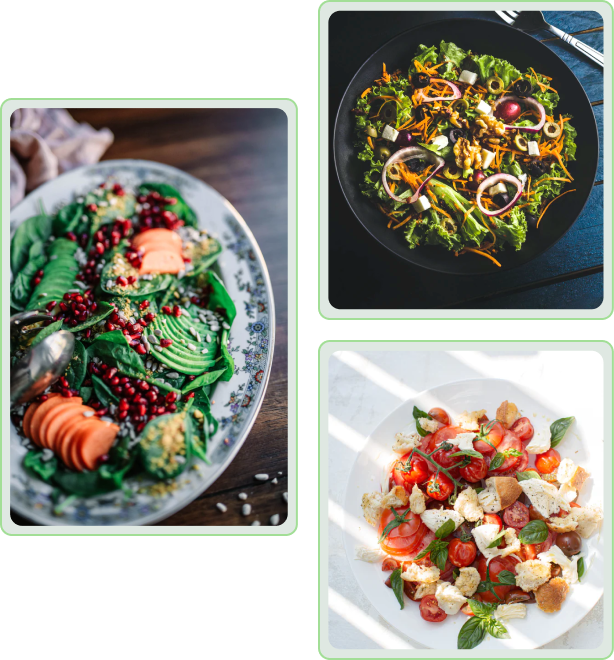
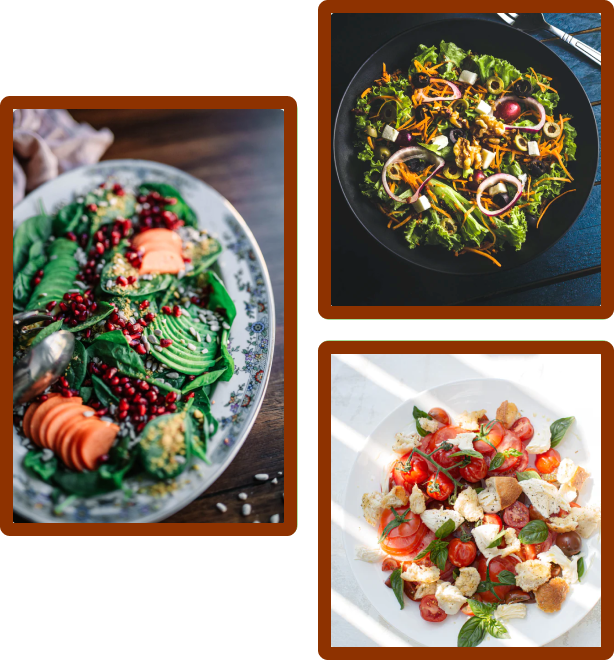
Поміняв палітру. Додав тінь до навігації. Замінив в текстах на нову назву.

Changed region(s): [[0.0, 0.0, 1.0, 1.0]]

diff --git a/shaif-s-cuisine-main/index.html b/shaif-s-cuisine-main/index.html
@@ -128,7 +128,7 @@
             <div class="storeInfo__icon">
               <img src="./images/address-icon.svg" alt="clock icon" />
             </div>
-            <h3 class="storeInfo__title">GEC, Chittagong</h3>
+            <h3 class="storeInfo__title">St. Cathedrale 6, Lviv, Ukraine</h3>
             <p class="storeInfo__text">Address</p>
           </div>
           <div class="storeInfo__item">
@@ -277,9 +277,9 @@
         <div class="eventsMedia__wrapper">
           <div class="eventsMedia__1">
             <img src="./images/eventsMedia1.png" alt="events" />
-            <a href="#" class="eventsMedia__1__playButton">
+            <!-- <a href="#" class="eventsMedia__1__playButton">
               <img src="./images/playIcon.svg" alt="play button" />
-            </a>
+            </a> -->
           </div>
           <div class="eventMedia__2">
             <img src="./images/eventsMedia2.png" alt="events" />
@@ -303,7 +303,7 @@
               <div class="eventsInfo__item__info">
                 <h2 class="eventsInfo__item__title">Corporate Events</h2>
                 <p class="eventsInfo__item__text">
-                  Shaif's Cuisine is the perfect venue for your corporate
+                  Noir Chef is the perfect venue for your corporate
                   events. We specialize in private parties.
                 </p>
               </div>
@@ -315,7 +315,7 @@
               <div class="eventsInfo__item__info">
                 <h2 class="eventsInfo__item__title">Weddings</h2>
                 <p class="eventsInfo__item__text">
-                  Shaif's Cuisine offers an intimately unique wedding experience
+                  Noir Chef offers an intimately unique wedding experience
                   set in a spectacular setting that is sophisticated and
                   comfortable.
                 </p>
@@ -325,7 +325,7 @@
           <div class="eventsInfo__right">
             <h2 class="eventsInfo__title">Book For Events</h2>
             <p class="eventsInfo__text">
-              Book your private event or corporate function at Shaif's cuisine
+              Book your private event or corporate function at Noir Chef
               to experience a truly unique experience.
             </p>
             <a href="./contact.html" class="btn primary-btn">Contact Now</a>
@@ -342,10 +342,8 @@
             <h2 class="whyUs__title">Why Choose Our Food</h2>
             <p class="whyUs__text">
               Quality of Service, Food, Ambiance, and Value of Money are the
-              primary elements for choosing a restaurant. Shaif's Cuisine is one
-              of the most exquisite fine-dinning restaurant in Chittagong cities
-              with a captivating view of GEC Hills, perfect ambiance, and
-              scrumptious food.
+              primary elements for choosing a restaurant. Noir Chef is one
+              of the most exquisite fine-dinning restaurant.
             </p>
           </div>
           <div class="whyUs__right" data-aos="fade-left">
@@ -396,7 +394,7 @@
                   <img src="./images/3star.png" alt="3 star" />
                 </div>
                 <p class="testimonial__item__text">
-                  “Visited Shaif’s Cuisine with friends last Sunday. Really
+                  “Visited Noir Chef with friends last Sunday. Really
                   lovely meal and very warm welcome – we would recommend this
                   lovely restaurant and will try to go back again”
                 </p>

diff --git a/shaif-s-cuisine-main/globalStyles.css b/shaif-s-cuisine-main/globalStyles.css
@@ -52,8 +52,8 @@ section {
 	--black-3: #5b6359;
 	--white-1: #e8e8e8;
 } */
-/* 
-:root {
+
+/* :root {
    --green-1: #632713;
    --green-2: #d69785;
    --lightGreen-1: #e8b2ad;
@@ -64,7 +64,7 @@ section {
    --white-1: #e8e8e8;
 } */
 /* ! поки це кінцевий варіант */
-:root {
+/* :root {
    --green-1: #167065;
    --green-2: #96dec0;
    --lightGreen-1: #d6e5de;
@@ -73,7 +73,29 @@ section {
    --black-2: #3f3c3c;
    --black-3: #596363;
    --white-1: #e8e8e8;
-}
+} */
+
+/* :root {
+	--green-1: #c1853b;
+	--green-2: #c2a178;
+	--lightGreen-1: #d1b99b;
+	--lightGreen-2: #d6c8b6;
+	--black-1: #3a4141;
+	--black-2: #3f3c3c;
+	--black-3: #596363;
+	--white-1: #e8e8e8;
+ } */
+
+ :root {
+	--green-1: #8E3200;
+	--green-2: #A64B2A;
+	--lightGreen-1: #D7A86E;
+	--lightGreen-2: #fdf5e2;
+	--black-1: #4d332c;
+	--black-2: #3f3c3c;
+	--black-3: #635b59;
+	--white-1: #e8e8e8;
+ }
 
 img {
 	width: 100%;
@@ -101,10 +123,11 @@ a {
 .nav {
 	position: fixed;
 	width: 100%;
-	background: #f5fcf4;
+	background: var(--lightGreen-2);
 	z-index: 10;
 	padding: 0%;
    margin-top: -60px;
+   box-shadow: 0 2px 4px 0 rgba(0,0,0,.2);
 }
 
 .logo img {

diff --git a/shaif-s-cuisine-main/about.html b/shaif-s-cuisine-main/about.html
@@ -93,7 +93,7 @@
             <h3 class="ourStory__title">Our Story</h3>
             <p class="ourStory__subtitle">It's all started since 1998</p>
             <p class="ourStory__text">
-              Welcome to Shaif's Cuisine. We take pride in delivering warm,
+              Welcome to Noir Chef. We take pride in delivering warm,
               friendly service and creating mouth-watering culinary delights for
               all. Using only the freshest locally sourced ingredients, we’ll
               ensure you have a dining experience to remember.
@@ -121,7 +121,7 @@
             showcasing warmth, graciousness, efficiency, skill, professionalism,
             and integrity in our work, we will continually serve our consumers
             with exceptional service. To have every customer who comes through
-            our doors leave impressed by their experience at Shaif's Cuisine and
+            our doors leave impressed by their experience at Noir Chef and
             excited to come back again.
           </p>
         </div>
